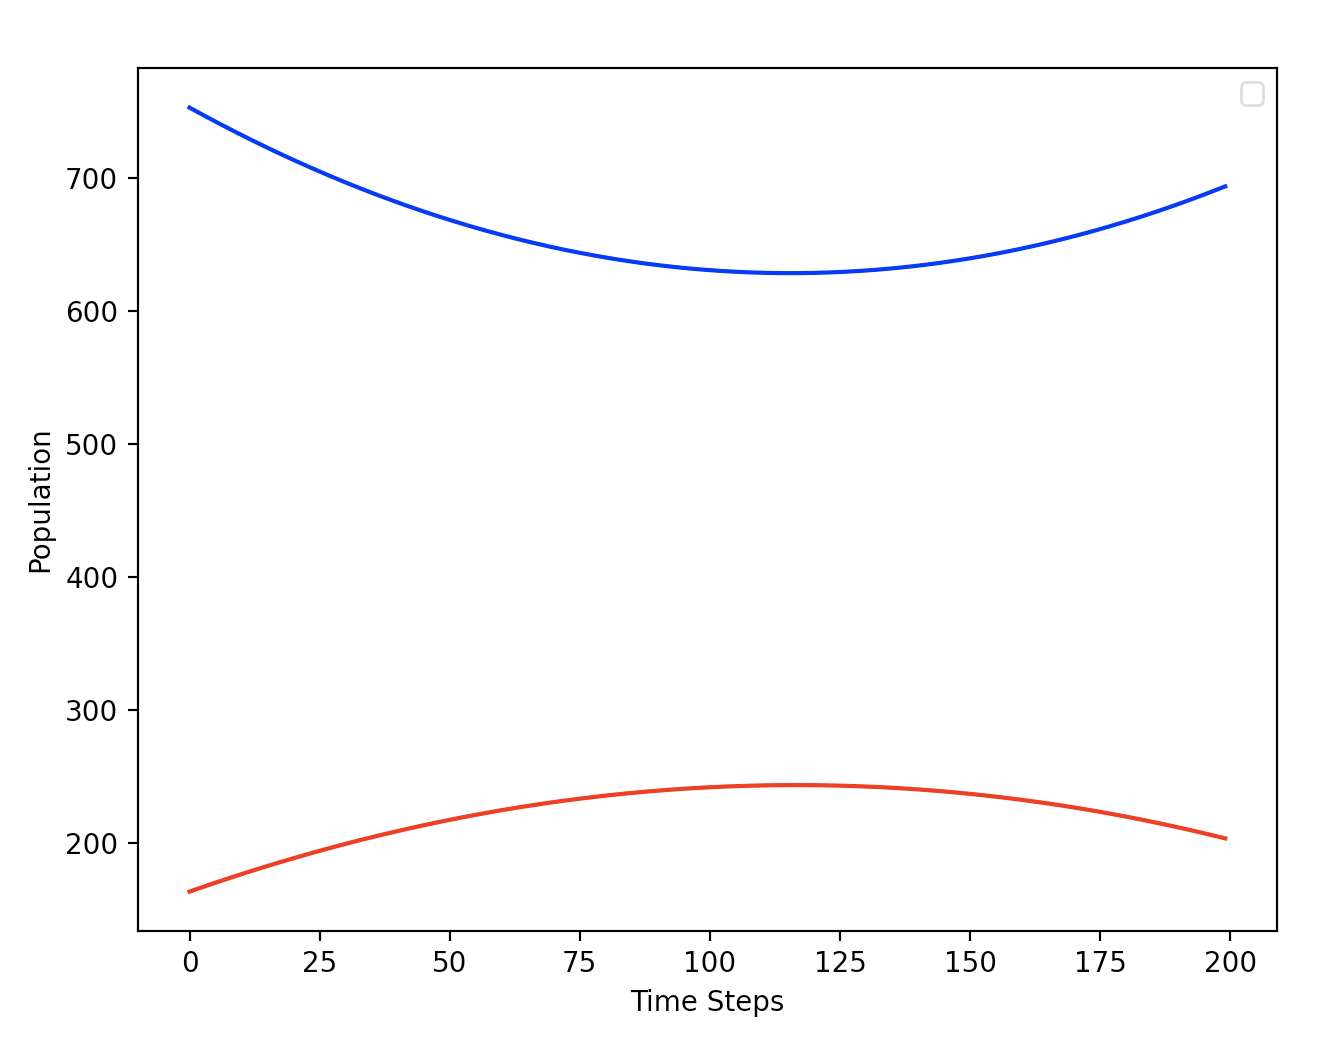
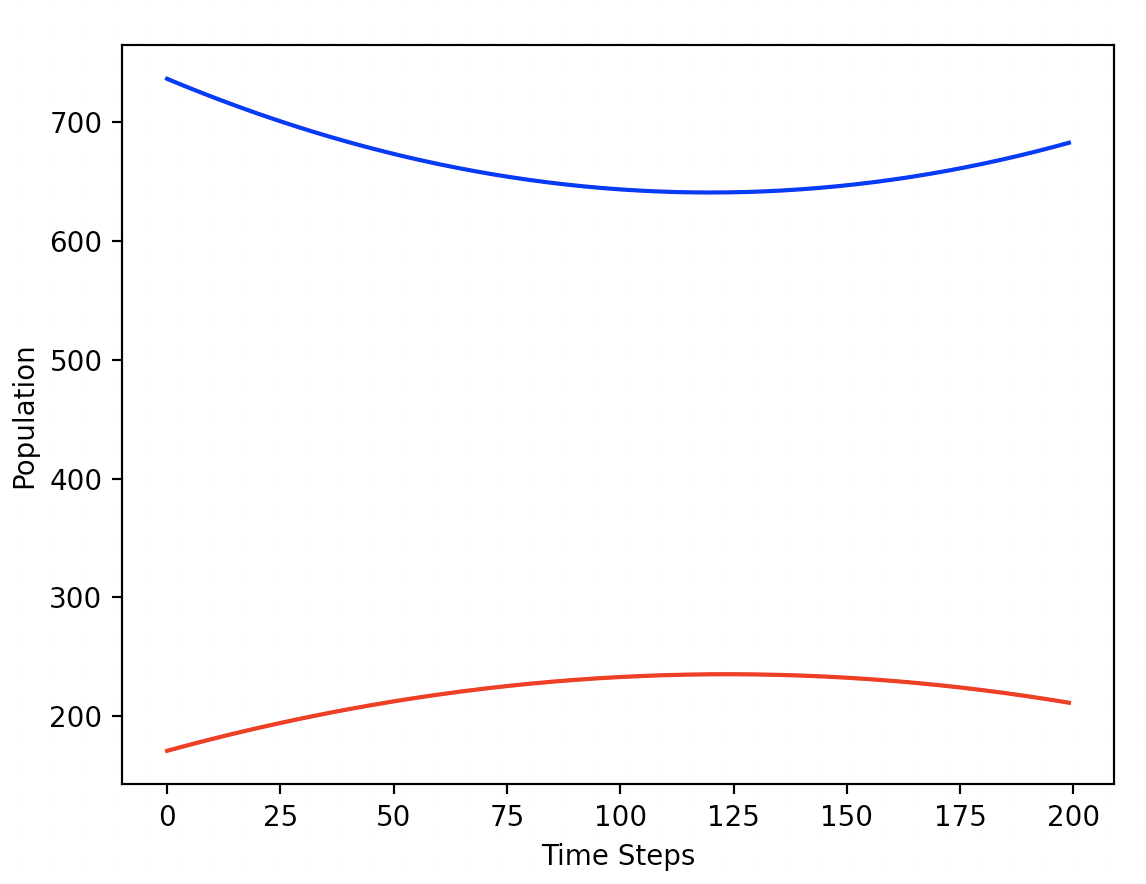
final commit - readme

diff --git a/edx_introduction_to_computational_thinking_and_data_science/Problem_Set_Final_Exam/Problem_8_rabbits_and_foxes.py b/edx_introduction_to_computational_thinking_and_data_science/Problem_Set_Final_Exam/Problem_8_rabbits_and_foxes.py
@@ -165,5 +165,4 @@ fox_coeff = pylab.polyfit(range(len(fox_pop)), fox_pop, degree)
 pylab.plot(pylab.polyval(fox_coeff, range(len(fox_pop))), 'r-')
 pylab.xlabel('Time Steps')
 pylab.ylabel('Population')
-pylab.legend(loc='upper right')
 pylab.show()

diff --git a/README.md b/README.md
@@ -4,6 +4,7 @@
 
 This project contains coding assignments that I found interesting and solved by myself during the completion of the basic courses on learning Python:
 
+
 ### [Coursera - Python for Everybody Specialization](https://www.coursera.org/specializations/python)
 
 [<img src="https://github.com/alexey198631/trainings/blob/main/coursera_python_for_everybody/course_picture.png" alt="course picture" width="100" align="right">](https://www.coursera.org/specializations/python)
@@ -15,6 +16,7 @@ Specialization includes following courses:
 3. [Using python to Access Web Data](https://github.com/alexey198631/trainings/tree/main/coursera_python_for_everybody/course_3_using_Python_to_acess_web_data)
 4. [Using Databases with Python](https://github.com/alexey198631/trainings/tree/main/coursera_python_for_everybody/course_4_using_databases_with_Python)
 5. [Capstone: Retrieving Processing and Visualizing Data with Python](https://github.com/alexey198631/trainings/tree/main/coursera_python_for_everybody/course_5_capstone_retrieving_processing_and_visualizing_data_with_Python)
+
 
 ### [<img src="https://github.com/alexey198631/trainings/blob/main/edx_introduction_to_computer_science_and_programming_using_Python/course_picture.png" alt="course picture" width="100" align="left">](https://www.edx.org/course/introduction-to-computer-science-and-programming-7?index=product&queryID=ffa27a743e81f3397da91aefee857fe1&position=1) [edX - MITx: 6.00.1x - Introduction to Computer Science and Programming Using Python](https://github.com/alexey198631/trainings/tree/main/edx_introduction_to_computer_science_and_programming_using_Python)
 
